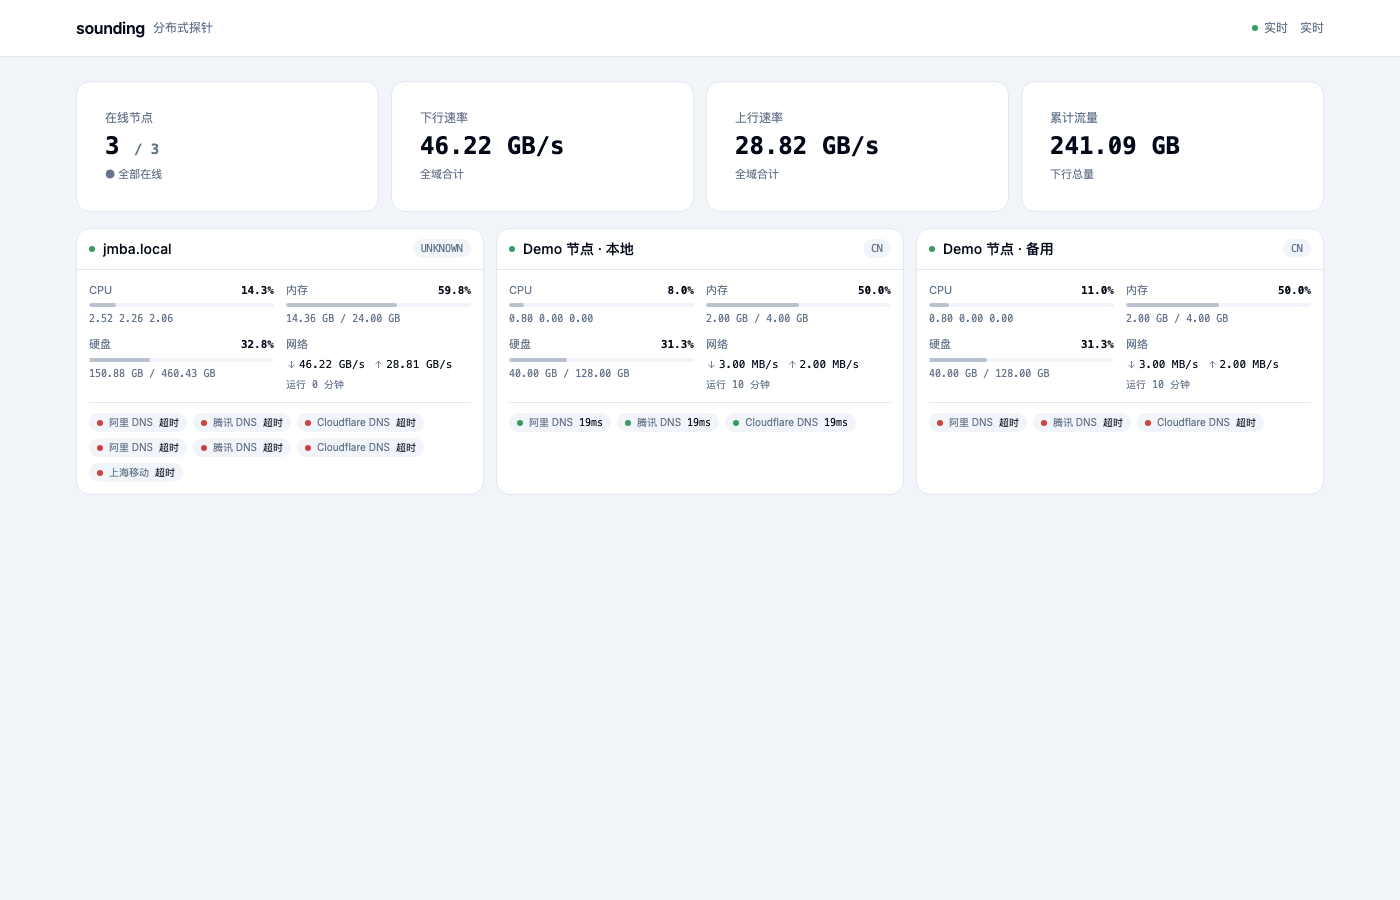
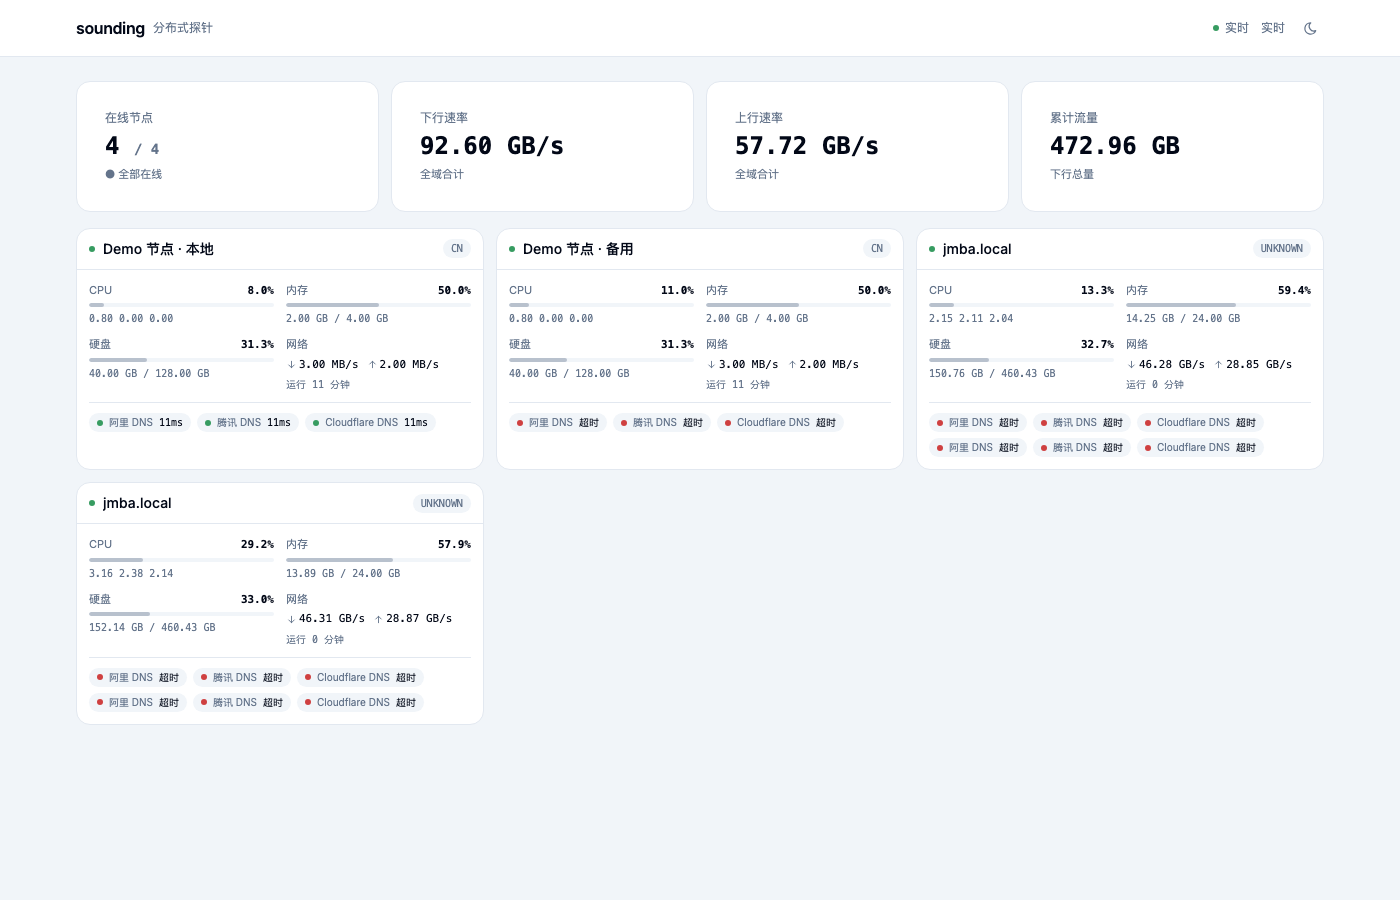
feat(①+②): dashboard 亮/暗主题（跟随系统+切换+记忆）+ 告警静默时段（mute_windows/silence_until——维护窗口不误报）+ README 双主题截图

diff --git a/internal/adminui/index.html b/internal/adminui/index.html
@@ -91,13 +91,14 @@
 
   <div class="card">
     <h2>告警规则 <span>kind: offline / latency / loss</span></h2>
-    <table id="alerts"><thead><tr><th>类型</th><th>节点</th><th>阈值</th><th></th></tr></thead><tbody></tbody></table>
+    <table id="alerts"><thead><tr><th>类型</th><th>节点</th><th>阈值</th><th>静默时段</th><th></th></tr></thead><tbody></tbody></table>
     <div class="row4" style="margin-top:12px">
       <div><label>类型</label>
         <select id="a-kind"><option value="offline">offline（离线）</option><option value="latency">latency（延迟 ms）</option><option value="loss">loss（丢包 %）</option></select>
       </div>
       <div><label>节点（*=全部）</label><input id="a-node" value="*"></div>
       <div><label>阈值</label><input id="a-threshold" type="number" value="200"></div>
+      <div><label>静默时段（如 02:00-04:00）</label><input id="a-mute" placeholder="留空=不静默"></div>
       <button onclick="addAlert()">添加规则</button>
     </div>
     <div class="status" id="alert-status"></div>
@@ -148,9 +149,9 @@ async function loadAlerts() {
   try {
     const d = await api('/api/admin/alerts');
     document.querySelector('#alerts tbody').innerHTML = (d.rules || []).map(r =>
-      `<tr><td>${r.kind}</td><td><code>${r.node}</code></td><td><code>${r.threshold}</code></td>
+      `<tr><td>${r.kind}</td><td><code>${r.node}</code></td><td><code>${r.threshold}</code></td><td class="muted">${(r.mute_windows || []).join(', ') || '—'}</td>
        <td><button class="danger" onclick="delAlert('${r.kind}','${r.node}')">删除</button></td></tr>`).join('')
-      || '<tr><td colspan="4" class="muted">暂无规则</td></tr>';
+      || '<tr><td colspan="5" class="muted">暂无规则</td></tr>';
   } catch (e) {}
 }
 async function editNode(uuid) {
@@ -199,6 +200,7 @@ async function addAlert() {
     kind: document.getElementById('a-kind').value,
     node: document.getElementById('a-node').value.trim() || '*',
     threshold: Number(document.getElementById('a-threshold').value) || 0,
+    mute_windows: document.getElementById('a-mute').value.trim() ? [document.getElementById('a-mute').value.trim()] : [],
   }) });
   document.getElementById('alert-status').textContent = '✓ 已添加';
   loadAlerts();

diff --git a/web/dashboard/src/views/NodeDetailView.vue b/web/dashboard/src/views/NodeDetailView.vue
@@ -4,10 +4,12 @@ import { computed, onMounted, ref, watch } from 'vue'
 import { useRoute, useRouter } from 'vue-router'
 import TrendChart from '@/components/TrendChart.vue'
 import { CardX } from '@/components/ui/card-x'
+import { useTheme } from '@/composables/useTheme'
 import { rpc } from '@/services/rpc'
 import type { Client, NodeStatus } from '@/services/rpc'
 import { formatBytes, formatBytesSplit, formatSpeed, formatUptime, percent, statusOf } from '@/utils/format'
 
+const { theme, toggle: toggleTheme } = useTheme()
 const route = useRoute()
 const router = useRouter()
 const uuid = computed(() => String(route.params.uuid))
@@ -80,6 +82,14 @@ function latencyTone(ms: number): string {
         <span class="size-1.5 rounded-full" :class="status?.online ? 'bg-success' : 'bg-destructive'" />
         <span class="text-xs text-muted-foreground">{{ status?.online ? '在线' : '离线' }}</span>
         <span v-if="node?.region" class="ml-auto rounded-full bg-muted px-2 py-0.5 font-mono text-[10px] text-muted-foreground">{{ node.region }}</span>
+        <button
+          class="inline-flex items-center rounded-md p-1.5 text-muted-foreground transition-colors hover:bg-muted"
+          :class="!node?.region ? 'ml-auto' : ''"
+          :title="theme === 'dark' ? '切换亮色' : '切换暗色'"
+          @click="toggleTheme"
+        >
+          <Icon :icon="theme === 'dark' ? 'tabler:sun' : 'tabler:moon'" :width="15" />
+        </button>
       </div>
     </header>
 

diff --git a/web/dashboard/src/views/DashboardView.vue b/web/dashboard/src/views/DashboardView.vue
@@ -4,9 +4,11 @@ import { computed } from 'vue'
 import NodeCard from '@/components/NodeCard.vue'
 import { CardX } from '@/components/ui/card-x'
 import { useRealtime } from '@/composables/useRealtime'
+import { useTheme } from '@/composables/useTheme'
 import { formatBytes, formatSpeed } from '@/utils/format'
 
 const { nodes, statuses, connected, updatedAt } = useRealtime()
+const { theme, toggle: toggleTheme } = useTheme()
 
 const list = computed(() =>
   Object.entries(nodes.value).map(([uuid, node]) => ({ uuid, node, status: statuses.value[uuid] })),
@@ -39,6 +41,13 @@ const lastUpdated = computed(() => {
             {{ connected ? '实时' : '轮询' }}
           </span>
           <span>{{ lastUpdated }}</span>
+          <button
+            class="inline-flex items-center rounded-md p-1.5 text-muted-foreground transition-colors hover:bg-muted"
+            :title="theme === 'dark' ? '切换亮色' : '切换暗色'"
+            @click="toggleTheme"
+          >
+            <Icon :icon="theme === 'dark' ? 'tabler:sun' : 'tabler:moon'" :width="15" />
+          </button>
         </div>
       </div>
     </header>

diff --git a/web/dashboard/src/composables/useTheme.ts b/web/dashboard/src/composables/useTheme.ts
@@ -1,0 +1,27 @@
+import { ref, watchEffect } from 'vue'
+
+type Theme = 'light' | 'dark'
+
+const KEY = 'sounding-theme'
+
+function initial(): Theme {
+  const saved = localStorage.getItem(KEY)
+  if (saved === 'light' || saved === 'dark')
+    return saved
+  return window.matchMedia('(prefers-color-scheme: dark)').matches ? 'dark' : 'light'
+}
+
+const theme = ref<Theme>(initial())
+
+watchEffect(() => {
+  document.documentElement.classList.toggle('dark', theme.value === 'dark')
+  localStorage.setItem(KEY, theme.value)
+})
+
+/** 亮/暗主题（跟随系统初始化，可手动切换，localStorage 记忆） */
+export function useTheme() {
+  function toggle() {
+    theme.value = theme.value === 'dark' ? 'light' : 'dark'
+  }
+  return { theme, toggle }
+}

diff --git a/internal/api/admin.go b/internal/api/admin.go
@@ -19,7 +19,8 @@ type AdminEndpoint struct {
 	statuses func() any
 	token    string
 	alerts   func() any
-	setAlert func(kind, node string, threshold float64, webhook string) error
+	setAlert   func(kind, node string, threshold float64, webhook string) error
+	setAlertEx func(kind, node string, threshold float64, webhook, silenceUntil string, muteWindows []string) error
 	delAlert func(kind, node string) error
 }
 
@@ -60,6 +61,11 @@ func (h *AdminEndpoint) SetStatusProvider(f func() any) { h.statuses = f }
 // SetAlertHooks 注入告警规则读写（避免包循环）。
 func (h *AdminEndpoint) SetAlertHooks(list func() any, set func(kind, node string, threshold float64, webhook string) error, del func(kind, node string) error) {
 	h.alerts, h.setAlert, h.delAlert = list, set, del
+}
+
+// SetAlertHooksEx 注入扩展规则读写（含静默期）。
+func (h *AdminEndpoint) SetAlertHooksEx(list func() any, set func(kind, node string, threshold float64, webhook, silenceUntil string, muteWindows []string) error, del func(kind, node string) error) {
+	h.alerts, h.setAlertEx, h.delAlert = list, set, del
 }
 
 func (h *AdminEndpoint) auth(r *http.Request) bool {
@@ -123,16 +129,18 @@ func (h *AdminEndpoint) ServeHTTP(w http.ResponseWriter, r *http.Request) {
 			_ = json.NewEncoder(w).Encode(map[string]any{"rules": h.alerts()})
 		case http.MethodPost:
 			var p struct {
-				Kind      string  `json:"kind"`
-				Node      string  `json:"node"`
-				Threshold float64 `json:"threshold"`
-				Webhook   string  `json:"webhook"`
+				Kind         string   `json:"kind"`
+				Node         string   `json:"node"`
+				Threshold    float64  `json:"threshold"`
+				Webhook      string   `json:"webhook"`
+				SilenceUntil string   `json:"silence_until"`
+				MuteWindows  []string `json:"mute_windows"`
 			}
 			if err := json.NewDecoder(r.Body).Decode(&p); err != nil {
 				http.Error(w, "bad payload", http.StatusBadRequest)
 				return
 			}
-			if err := h.setAlert(p.Kind, p.Node, p.Threshold, p.Webhook); err != nil {
+			if err := h.setAlertEx(p.Kind, p.Node, p.Threshold, p.Webhook, p.SilenceUntil, p.MuteWindows); err != nil {
 				http.Error(w, err.Error(), http.StatusInternalServerError)
 				return
 			}

diff --git a/internal/alert/alert.go b/internal/alert/alert.go
@@ -3,6 +3,7 @@ package alert
 import (
 	"context"
 	"log"
+	"strings"
 	"sync"
 	"time"
 
@@ -11,9 +12,36 @@ import (
 
 // Rule 告警规则。
 type Rule struct {
-	Kind      string  `json:"kind"`      // offline | latency | loss
-	Node      string  `json:"node"`      // uuid 或 *（全部）
-	Threshold float64 `json:"threshold"` // 阈值（ms / %）
+	Kind         string   `json:"kind"`           // offline | latency | loss
+	Node         string   `json:"node"`           // uuid 或 *（全部）
+	Threshold    float64  `json:"threshold"`      // 阈值（ms / %）
+	SilenceUntil string   `json:"silence_until"`  // 静默截止（RFC3339，空=不静默）
+	MuteWindows  []string `json:"mute_windows"`   // 每日静默时段 "02:00-04:00"
+}
+
+// silenced 判断规则当前是否处于静默（维护窗口）。
+func (r Rule) silenced(now time.Time) bool {
+	if r.SilenceUntil != "" {
+		if t, err := time.Parse(time.RFC3339, r.SilenceUntil); err == nil && now.Before(t) {
+			return true
+		}
+	}
+	cur := now.Format("15:04")
+	for _, w := range r.MuteWindows {
+		parts := strings.SplitN(w, "-", 2)
+		if len(parts) != 2 {
+			continue
+		}
+		start, end := strings.TrimSpace(parts[0]), strings.TrimSpace(parts[1])
+		if start <= end {
+			if cur >= start && cur < end {
+				return true
+			}
+		} else if cur >= start || cur < end { // 跨午夜
+			return true
+		}
+	}
+	return false
 }
 
 // Event 告警事件。
@@ -86,8 +114,13 @@ func (m *Manager) Evaluate(ev Event) {
 		return
 	}
 	matched := false
+	now := time.Now()
 	for _, r := range m.rules {
 		if r.Kind == ev.Kind && (r.Node == "*" || r.Node == ev.Node) && ev.Value >= r.Threshold {
+			if r.silenced(now) { // 维护窗口内——跳过通知
+				m.mu.Unlock()
+				return
+			}
 			ev.Threshold = r.Threshold
 			matched = true
 			break

diff --git a/cmd/server/main.go b/cmd/server/main.go
@@ -116,10 +116,10 @@ func main() {
 	adminH := api.NewAdminEndpoint(st, *adminToken)
 	adminH.SetStatusProvider(func() any { m, _ := st.LatestStatus(); return m })
 	if alertMgr != nil {
-		adminH.SetAlertHooks(
+		adminH.SetAlertHooksEx(
 			func() any { return alertMgr.Rules() },
-			func(kind, node string, threshold float64, _ string) error {
-				alertMgr.SetRule(alert.Rule{Kind: kind, Node: node, Threshold: threshold})
+			func(kind, node string, threshold float64, _, silenceUntil string, muteWindows []string) error {
+				alertMgr.SetRule(alert.Rule{Kind: kind, Node: node, Threshold: threshold, SilenceUntil: silenceUntil, MuteWindows: muteWindows})
 				return nil
 			},
 			func(kind, node string) error { alertMgr.DeleteRule(kind, node); return nil },

diff --git a/README.md b/README.md
@@ -26,9 +26,11 @@
 
 ## 截图
 
-**监控面板**（`/`——sounding 自研，复用 ink 设计系统）
+**监控面板**（`/`——sounding 自研，复用 ink 设计系统，**亮/暗主题**）
 
-![sounding dashboard](docs/dashboard.png)
+| 亮色 | 暗色 |
+|---|---|
+| ![dashboard light](docs/dashboard.png) | ![dashboard dark](docs/dashboard-dark.png) |
 
 **节点详情**（`/node/:uuid`——趋势图 + 资源指标 + 探针延迟）
 
@@ -287,7 +289,7 @@ curl -X POST http://主控:8080/api/admin/nodes -H 'X-Admin-Token: <admin-token>
 |---|---|---|
 | `/api/admin/nodes` | GET / POST | 查看 / 手动添加服务器 |
 | `/api/admin/probes` | GET / POST / DELETE | 查看 / 配置 / 删除探针任务（`client=*` 全局 / `client=n1` 节点级） |
-| `/api/admin/alerts` | GET / POST / DELETE | 告警规则运行时 CRUD（kind/node/threshold） |
+| `/api/admin/alerts` | GET / POST / DELETE | 告警规则运行时 CRUD（kind/node/threshold/**mute_windows 静默时段**） |
 | `/agent/config` | GET | Agent 拉取远程配置（探针目标下发） |
 | `/admin/` | GET | **内置管理页**（节点/探针/告警可视化） |
 | `/agent/status` | POST | Agent 上报（`X-Auth-Token`） |
